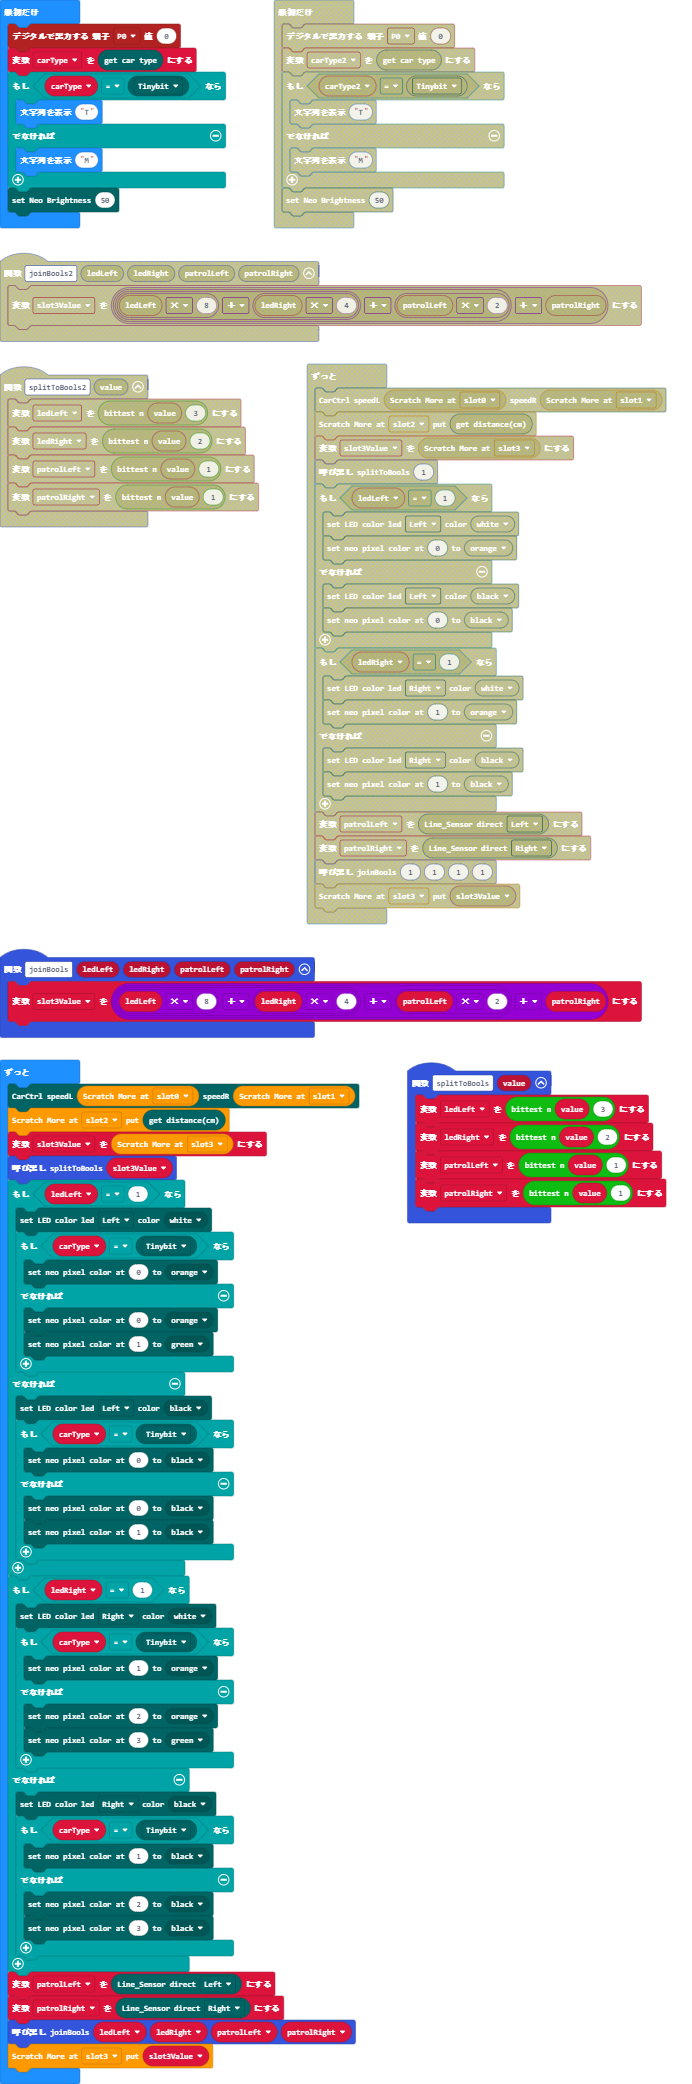
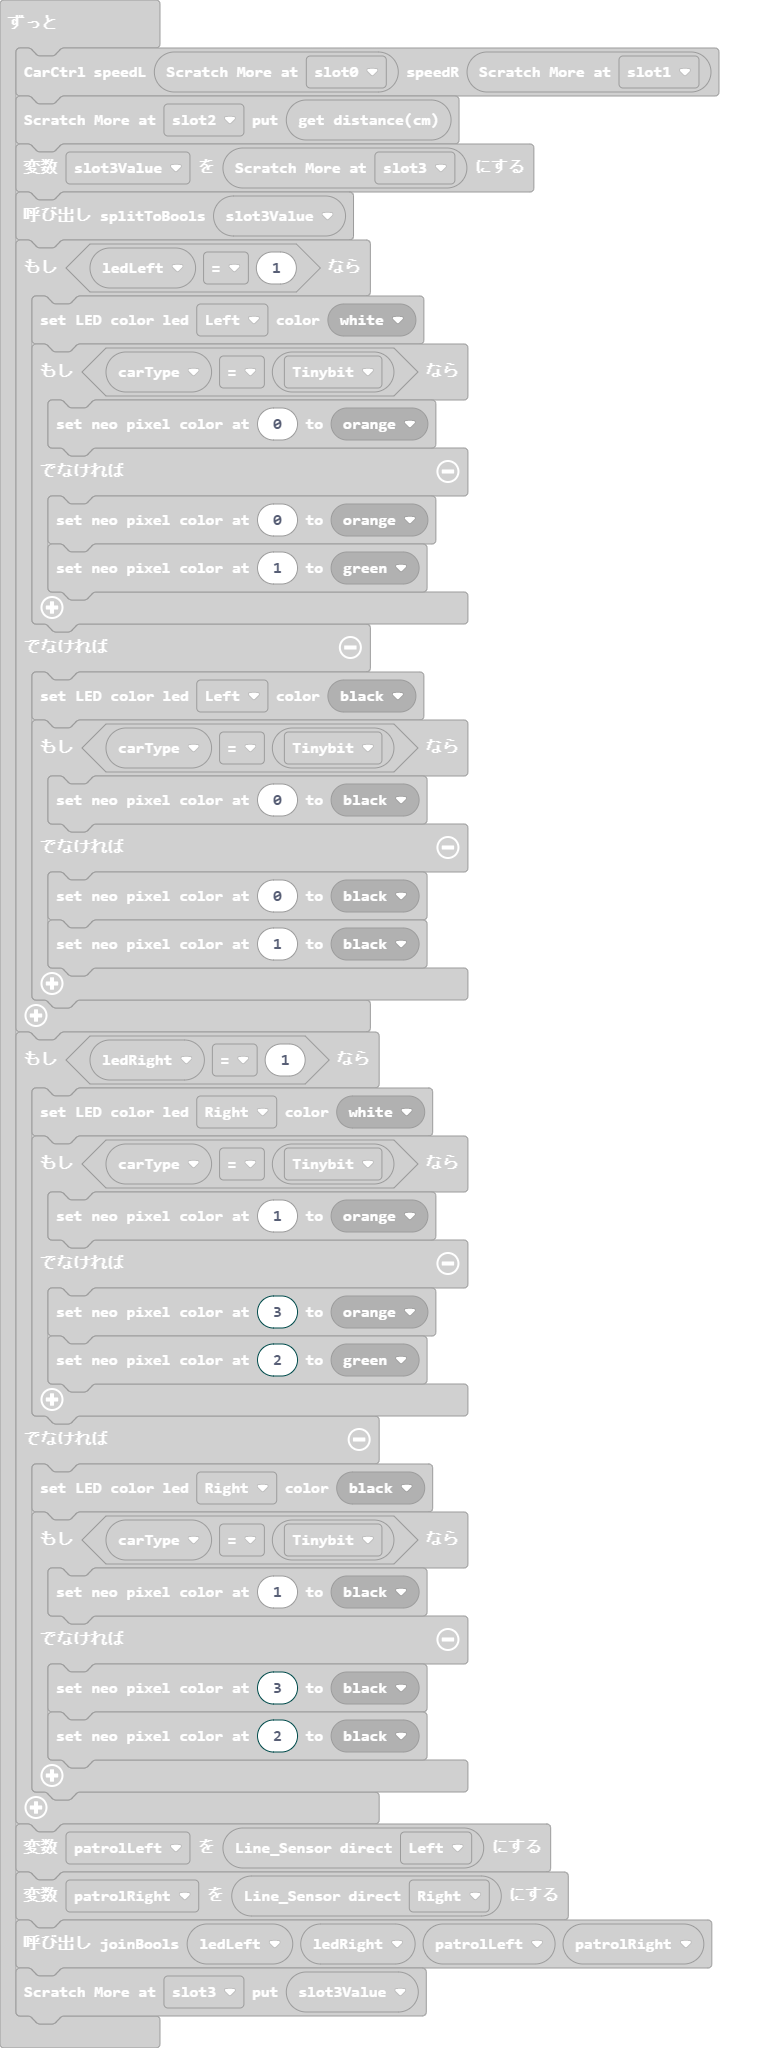
Update main.blocks, main.ts

diff --git a/main.ts b/main.ts
@@ -50,16 +50,16 @@ basic.forever(function () {
         if (carType2 == carcotrol.car(carType.Tinybit)) {
             carcotrol.setNeoPixelColor(1, carcotrol.colors(RGBColors.Orange))
         } else {
-            carcotrol.setNeoPixelColor(2, carcotrol.colors(RGBColors.Orange))
-            carcotrol.setNeoPixelColor(3, carcotrol.colors(RGBColors.Green))
+            carcotrol.setNeoPixelColor(3, carcotrol.colors(RGBColors.Orange))
+            carcotrol.setNeoPixelColor(2, carcotrol.colors(RGBColors.Green))
         }
     } else {
         carcotrol.setLED(Position.Right, carcotrol.colors(RGBColors.Black))
         if (carType2 == carcotrol.car(carType.Tinybit)) {
             carcotrol.setNeoPixelColor(1, carcotrol.colors(RGBColors.Black))
         } else {
-            carcotrol.setNeoPixelColor(2, carcotrol.colors(RGBColors.Black))
             carcotrol.setNeoPixelColor(3, carcotrol.colors(RGBColors.Black))
+            carcotrol.setNeoPixelColor(2, carcotrol.colors(RGBColors.Black))
         }
     }
     patrolLeft = carcotrol.Line_Sensor(Position.Left)
